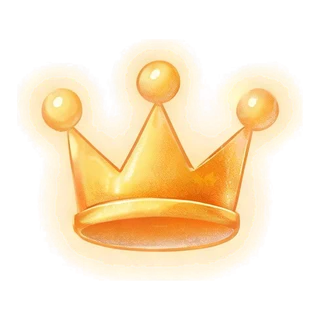
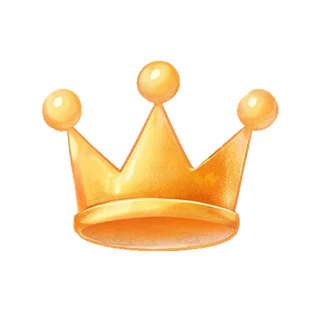
Armario: quita el contorno crema de la corona y la varita de luz
tools/dehalo.py vuelve transparente el halo crema (resto del fondo blanco)
conectado con el exterior y suaviza el borde; regenera los .webp (320x320,
calidad 88) desde assets/apimart/objetos. Revisado con tools/outfit_preview.py.

Claude-Session: https://claude.ai/code/session_019ztmEN69isEy8K2sM4osbN

Changed region(s): [[0.0625, 0.125, 0.9375, 0.875]]

diff --git a/tools/dehalo.py b/tools/dehalo.py
@@ -1,0 +1,55 @@
+#!/usr/bin/env python3
+"""Quita el contorno crema (resto del fondo blanco) de objetos recortados y regenera su .webp.
+
+Uso (desde la raíz del repo, con pillow, numpy y scipy):
+    python3 tools/dehalo.py corona-luz varita-luz          # escribe app/assets/collection/<id>.webp
+    OUT=/tmp/x python3 tools/dehalo.py corona-luz          # escribe en otra carpeta (para revisar)
+
+Fuente: assets/apimart/objetos/<id>.png. Marca como halo los píxeles claros y poco
+saturados (crema) o semitransparentes que se tocan con el borde de la imagen, los vuelve
+transparentes y suaviza el borde nuevo. Los brillos crema de dentro del objeto no se
+tocan porque no están conectados con el exterior.
+"""
+import os
+import sys
+from pathlib import Path
+
+import numpy as np
+from PIL import Image
+from scipy import ndimage
+
+ROOT = Path(__file__).resolve().parent.parent
+SRC = ROOT / "assets" / "apimart" / "objetos"
+OUT = Path(os.environ.get("OUT", ROOT / "app" / "assets" / "collection"))
+SIZE = 320
+
+
+def dehalo(im: Image.Image) -> Image.Image:
+    a = np.asarray(im.convert("RGBA")).astype(np.float32)
+    r, g, b, alpha = a[..., 0], a[..., 1], a[..., 2], a[..., 3]
+    # Crema: muy claro y con el azul alto (el dorado y el naranja del objeto tienen el azul bajo).
+    cream = (r > 225) & (g > 205) & (b > 150) & ((r - b) < 90)
+    candidate = cream | (alpha < 250)
+    labels, _ = ndimage.label(candidate)
+    edge = np.unique(np.concatenate([labels[0], labels[-1], labels[:, 0], labels[:, -1]]))
+    halo = np.isin(labels, edge[edge > 0])
+    # Un píxel más hacia dentro: la franja de transición crema-naranja.
+    halo = ndimage.binary_dilation(halo, iterations=1) & (cream | halo | (b > 110))
+    keep = ndimage.gaussian_filter((~halo).astype(np.float32), sigma=0.7)
+    out = a.copy()
+    out[..., 3] = alpha * np.clip((keep - 0.5) * 2, 0, 1)
+    return Image.fromarray(out.round().astype(np.uint8), "RGBA")
+
+
+def main(ids: list[str]) -> None:
+    OUT.mkdir(parents=True, exist_ok=True)
+    for item in ids:
+        im = dehalo(Image.open(SRC / f"{item}.png"))
+        im = im.resize((SIZE, SIZE), Image.LANCZOS)
+        path = OUT / f"{item}.webp"
+        im.save(path, "WEBP", quality=88)
+        print(path)
+
+
+if __name__ == "__main__":
+    main(sys.argv[1:] or ["corona-luz", "varita-luz"])
